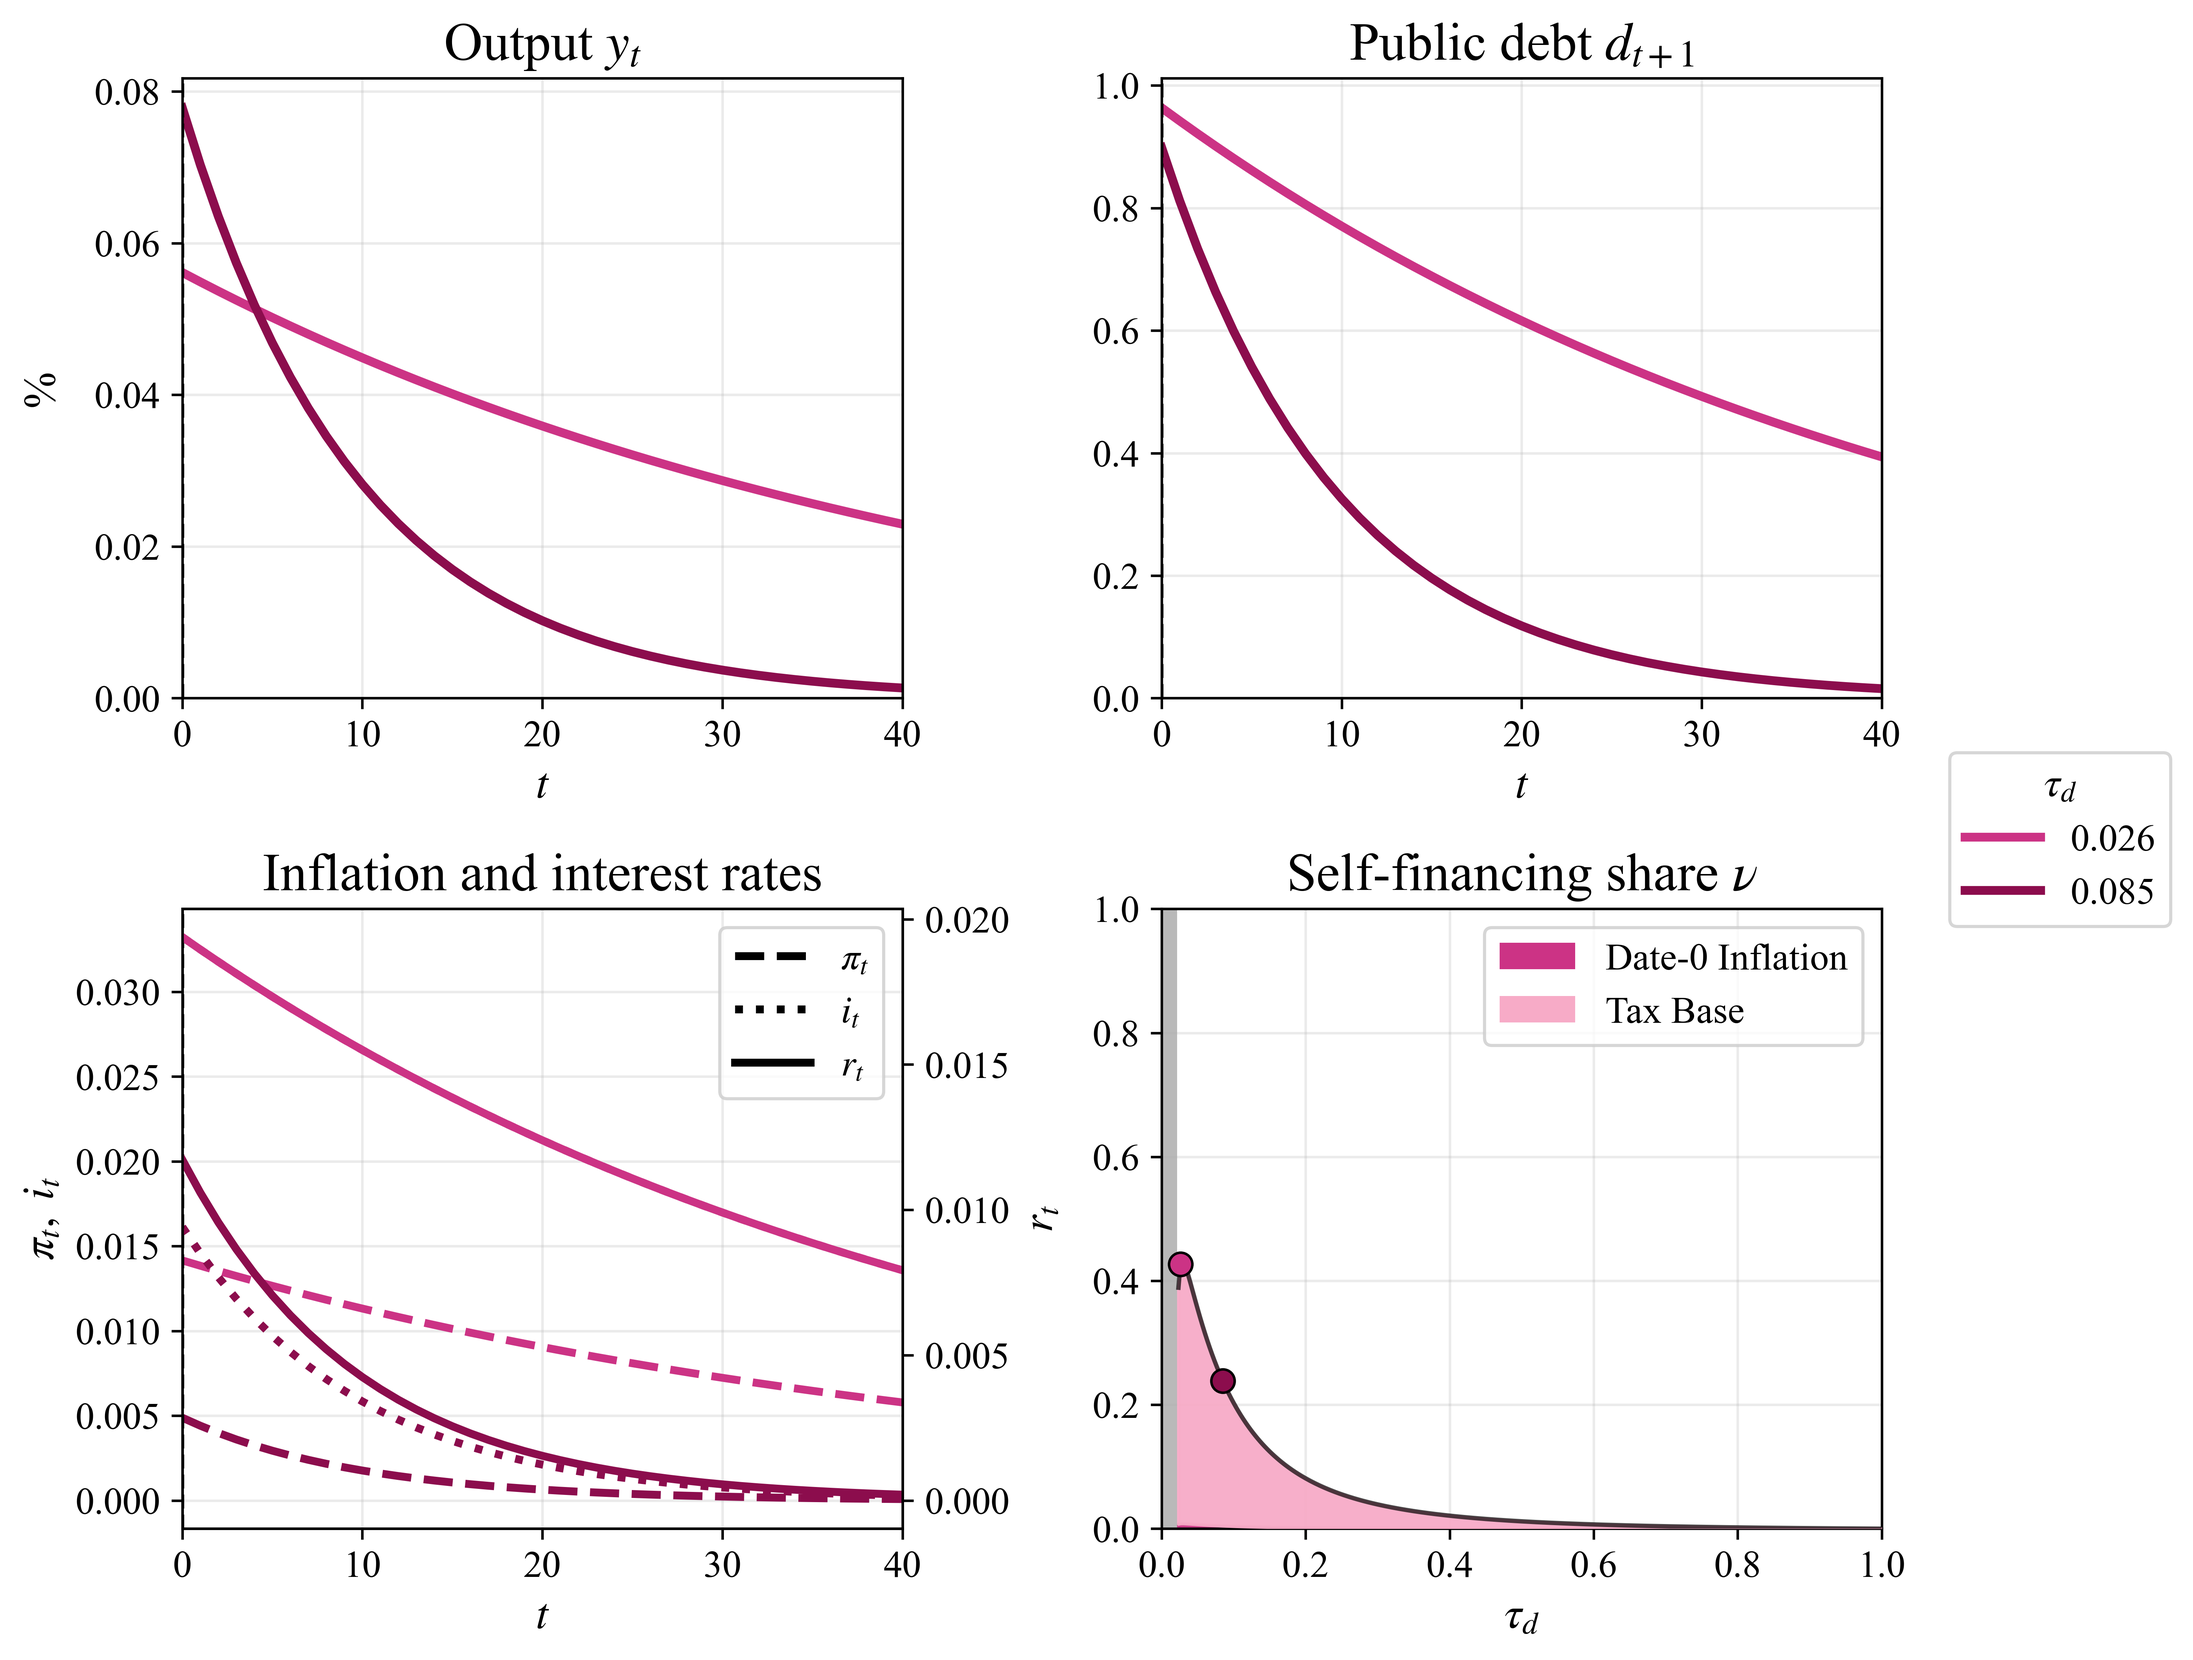
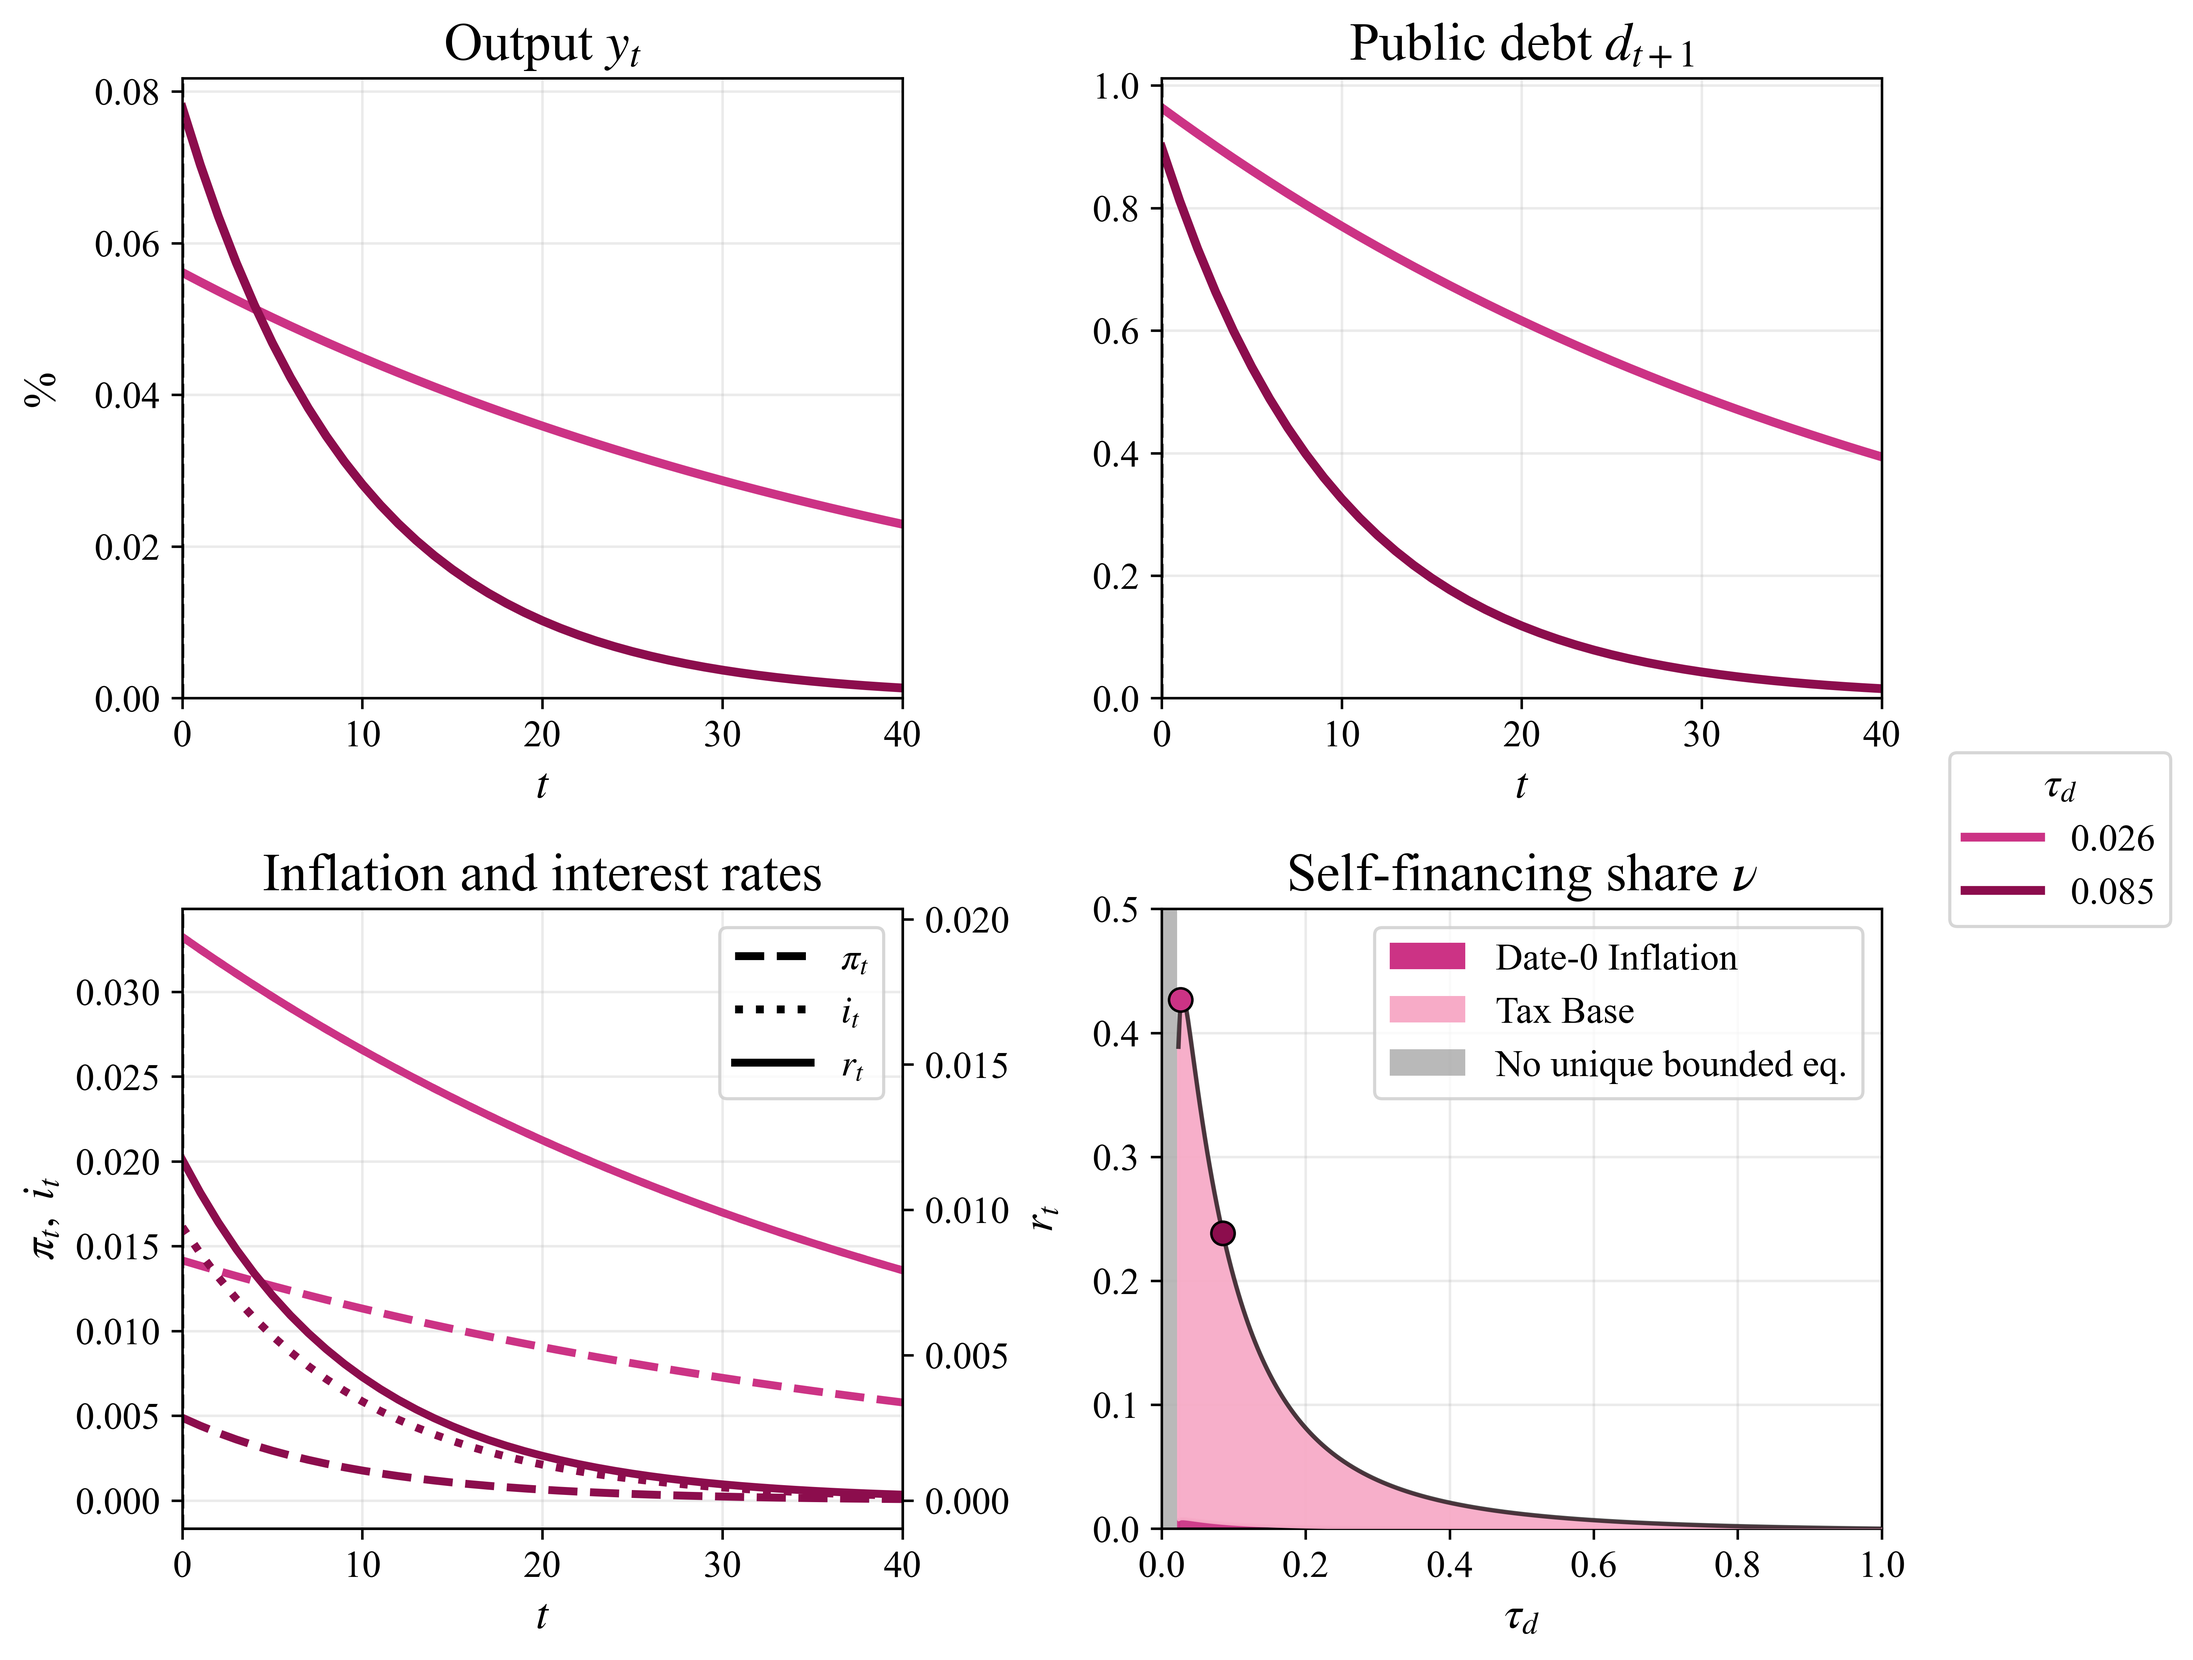
endelige figurer

Changed region(s): [[0.6234, 0.5611, 0.8416, 0.6546], [0.5299, 0.5923, 0.7481, 0.9352], [0.4987, 0.5299, 0.5299, 0.5611]]

diff --git a/code/OLGNK_analytical.py b/code/OLGNK_analytical.py
@@ -1187,7 +1187,7 @@ class Taud_taylor_OLG:
             plot_array[has_enough_points] = 0.0
             plot_array[failure_exists] = 1.0
 
-            cmap = ListedColormap(["#93C5FD", "#6B7280"])
+            cmap = ListedColormap(["#F7ABC7", "#8C0D4D"])
             cmap.set_bad(color="white")
 
             fig, ax = plt.subplots(figsize=(9, 7))
@@ -1211,12 +1211,12 @@ class Taud_taylor_OLG:
             ax.axhline(phi_ref, color="black", linestyle="--", linewidth=1.8, alpha=0.9)
 
             legend_handles = [
-                Patch(facecolor="#93C5FD", edgecolor="black",
+                Patch(facecolor="#F7ABC7", edgecolor="black",
                     label=r"$\tau_d \chi'(\tau_d) < \chi(\tau_d) \forall \tau_d$"),
-                Patch(facecolor="#6B7280", edgecolor="black",
+                Patch(facecolor="#8C0D4D", edgecolor="black",
                     label=r"$\exists \tau_d : \tau_d \chi'(\tau_d) > \chi(\tau_d)$"),
                 Patch(facecolor="white", edgecolor="black",
-                    label="Indeterminate for all $\tau_d$"),
+                    label=r"Indeterminate for all $\tau_d$"),
                 Line2D([0], [0], color="black", linestyle="--", linewidth=1.8,
                     label=r"$\psi = 1/\beta$ and $\phi = -\kappa/\beta$")
             ]
@@ -1225,11 +1225,12 @@ class Taud_taylor_OLG:
 
             ax.set_xlabel(r"$\psi$")
             ax.set_ylabel(r"$\phi$")
-            ax.set_title(
-                r"Existence of $\tau_d$ such that "
-                r"$\tau_d \chi'(\tau_d)-\chi(\tau_d)\geq 0$"
-            )
+            # ax.set_title(
+            #     r"Existence of $\tau_d$ that breaks monotonocity such that "
+            #     r"$\tau_d \chi'(\tau_d)-\chi(\tau_d)\geq 0$"
+            # )
             plt.tight_layout()
+            fig.savefig("appendix/thm1_monotonocity_condition.png", dpi=600, bbox_inches="tight")
             plt.show()
 
     def decompose_persistence_at_tau(
@@ -1454,20 +1455,21 @@ model = Taud_taylor_OLG()
 
 par = model.par
 par.beta  = 0.99**0.25
-par.omega = 0.75
+par.omega = 0.862
 par.tau_y = 1.0 / 3.0
 par.sigma = 1.0
-par.kappa = 0.05
+par.kappa = 0.0062
 par.Dbar  = 1.04
-par.psi   = 0.0 + 1.0 / par.beta 
-par.phi   = 0.0 - par.kappa / par.beta
+par.psi   = 0.5 + 1.0 / par.beta 
+par.phi   = 0.5 - par.kappa / par.beta 
 par.tau_d = None
 par.T = 30
 
 
+
 model.figname = "skrald.png"
-model.decompose_persistence_at_tau(tau_d=0.1)
-#model.run()
+#model.decompose_persistence_at_tau(tau_d=0.1)
+model.run()
 
 
 # model.plot_self_financing_grid(
@@ -1479,9 +1481,9 @@ model.decompose_persistence_at_tau(tau_d=0.1)
 a_y  = -model.par.kappa / model.par.beta
 a_pi = 1 / model.par.beta
 res = model.map_condition_failure_from_matrix(
-    phi_grid=np.linspace(a_y-0.5, a_y+1.0, 300),
-    psi_grid=np.linspace(a_pi-0.5, a_pi+1.0, 300),
-    tau_d_grid=np.linspace(0.000, 1.0, 5000),
+    phi_grid=np.linspace(a_y-0.2, a_y+2.0, 20),
+    psi_grid=np.linspace(a_pi-0.2, a_pi+1, 20),
+    tau_d_grid=np.linspace(0.0, 1.0, 5000),
     make_plot=True,
 )
 

diff --git a/code/OLGNKHTM_preannounced.py b/code/OLGNKHTM_preannounced.py
@@ -1271,9 +1271,9 @@ class PreannouncedDeficit_OLG:
 
                 ax.axhline(1.0, color="black", ls="--", alpha=0.5, linewidth=1.2)
 
-                ax.set_title(r"Self-financing share $\nu(s)$")
+                ax.set_title(r"Self-financing share $\nu_s$")
                 ax.set_xlabel(r"Implementation date $s$")
-                ax.set_ylabel(r"$\nu(s)$")
+                ax.set_ylabel(r"$\nu_s$")
                 ax.set_xlim(float(np.min(implement_t_grid)), float(np.max(implement_t_grid)))
                 ax.grid(True, alpha=0.25)
 
@@ -1578,21 +1578,25 @@ if __name__ == "__main__":
     par.kappa = 0.0062
     par.Dbar = 1.04
 
+    # INDSTIL 
     # Active real-rate rule:
     # r_t = 0.08*y_t + 1.04*pi_t
-    # INDSTIL
-    par.alpha_y = 0.0862
+    par.alpha_y  = 0.0862
     par.alpha_pi = 1.0275
+
+    # alternativ realrente (robusthed):
+    # r_t = (0.5 + k/b)y_t + (1.5 - 1/b)pi_t
+    # par.alpha_y  = 0.5 +par.kappa/par.beta 
+    # par.alpha_pi = 1.5 -1/par.beta
 
     par.T = 800
     par.announce_t = 0
     par.implement_t = 20 # INDSTIL
     par.horizon_x_max = 40 # sweep horizon
 
-
     YLIMS = {
-        "fig1_output": (-0.14, 0.18),
-        "fig1_debt":  (None, None),
+        "fig1_output": (-0.05, 0.1),
+        "fig1_debt":  (-0.02, 1.2),
         "fig1_rates_left": None,
         "fig1_rates_right": None,
 
@@ -1609,8 +1613,8 @@ if __name__ == "__main__":
         x_plot_max=40,
         tau_d_list=[0.004, 0.026, 0.085],
         #tau_d_list=[0.0, 0.004, 0.026, 0.085, 0.1, 0.3, 0.5, 1.0],
-        savepath_main="figures/panel_active_delay20.png",
-        # savepath_delay="figures/delay_active.png",
+        savepath_main="appendix/alternativerealrate_active_delay20.png",
+        #savepath_delay="figures/delay_active.png",
         show=True,
         ylims=YLIMS,
     )
